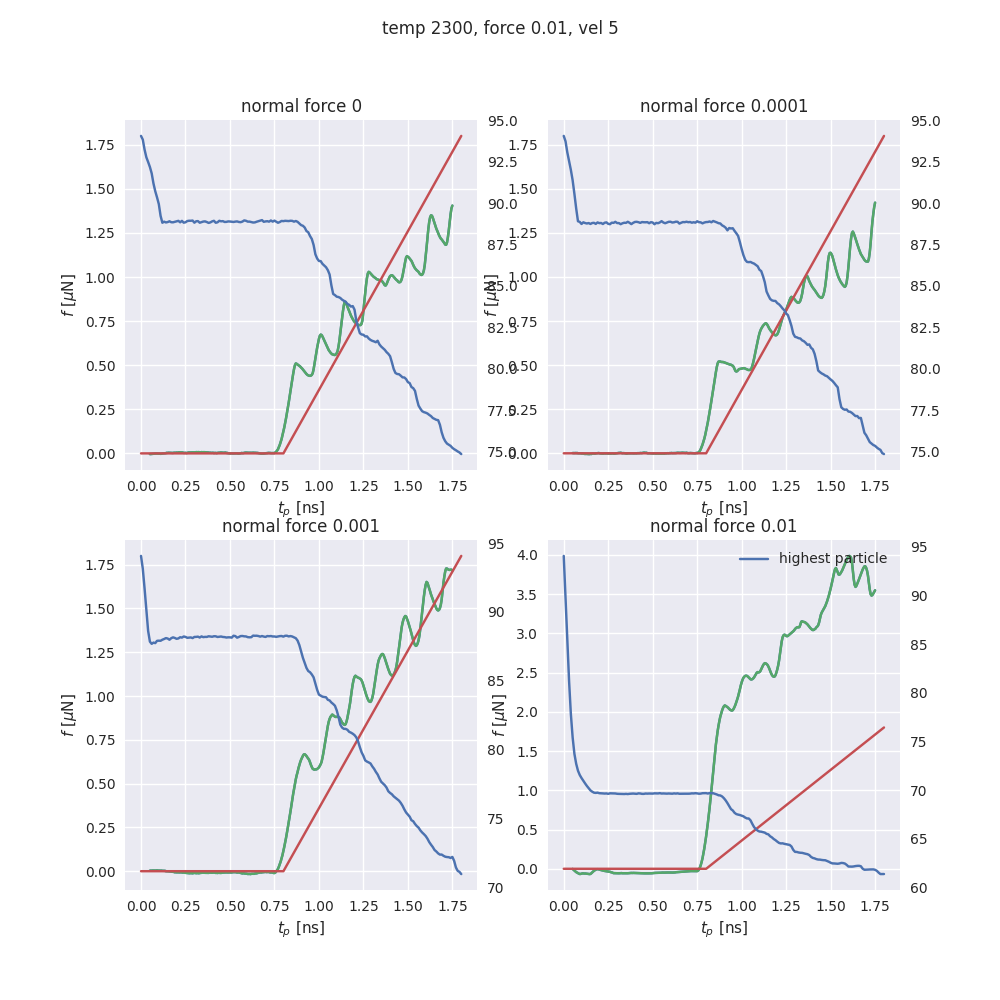
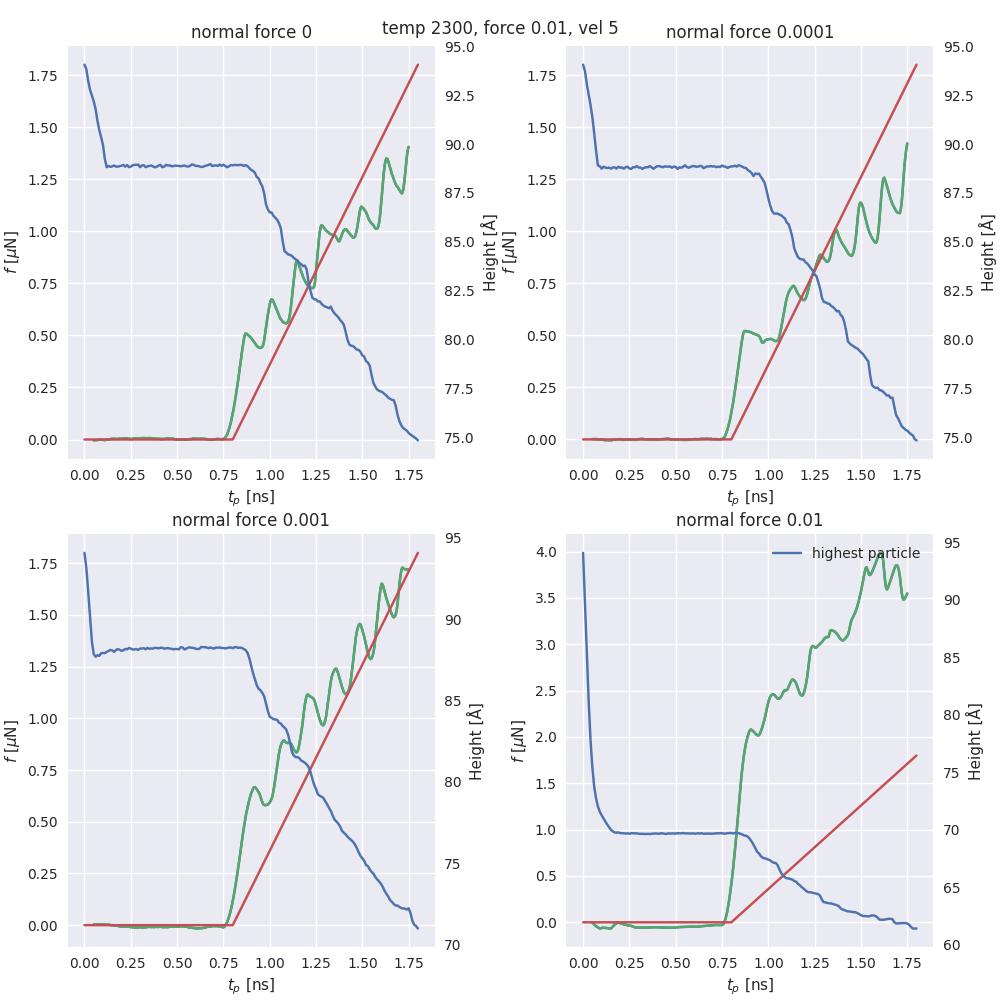
plot update

diff --git a/python/plot/plot_load_curves.py b/python/plot/plot_load_curves.py
@@ -256,6 +256,7 @@ def load_vs_normal_force():
     pushdist = np.linspace(0,time, 1000)
     pushdist = np.concatenate((reldist, pushdist)) 
 
+    lc_len = 361
     # paths
     project_dir = '../../'
     fig_dir = project_dir + 'fig/'
@@ -302,10 +303,12 @@ def load_vs_normal_force():
         height = np.array(height)
         axs2[i].plot(timeframes, height, label = f'highest particle')
         axs2[i].grid(False)
+        axs2[i].set_ylabel('Height [Å]')
 
         #load plot
         #print('mean load curves shape: ',load_curves_mean.shape)
         #print('all load curves shape: ',load_curves_all.shape)
+        print(len(load_curves_mean[0,:,0]))
         axs[i].plot(load_curves_mean[0,:,0], load_curves_mean[0,:,1], label = 'average')
         axs[i].plot(np.linspace(0, time*0.001, len(pushdist)), pushdist*0.001, label = 'push distance')
         axs[i].set_xlabel(r"$t_p$ [ns]")
@@ -313,6 +316,7 @@ def load_vs_normal_force():
         axs[i].set_title(f'normal force {force}')
     plt.suptitle(f"temp {temp}, force {force}, vel {vel}")
     plt.legend()
+    fig.tight_layout(pad=0.2)
     plt.savefig(fig_dir + 'production_varying_normalforce_height.png')
 
 
